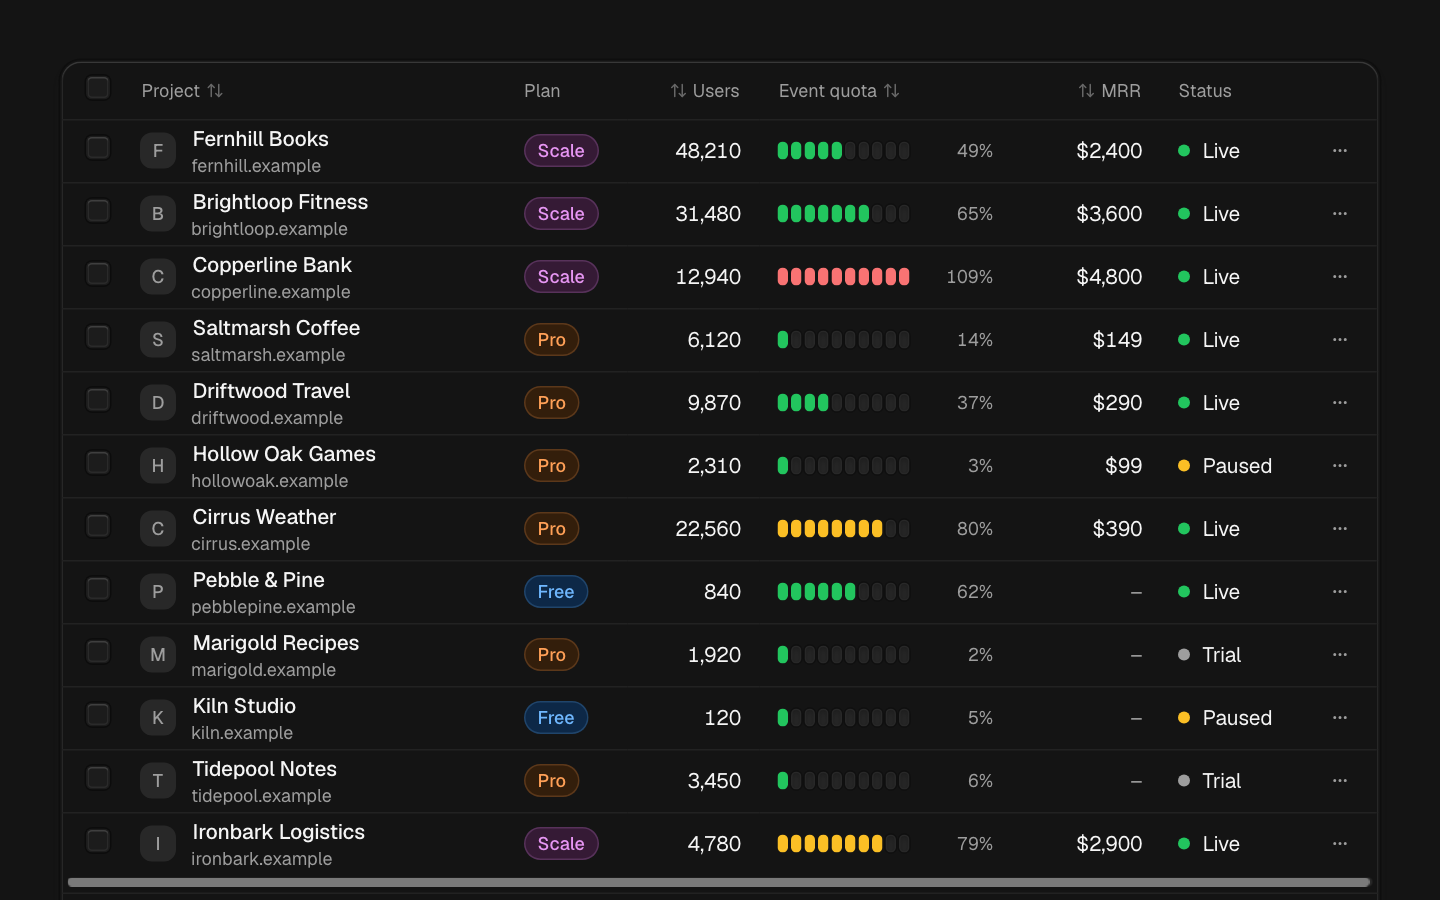
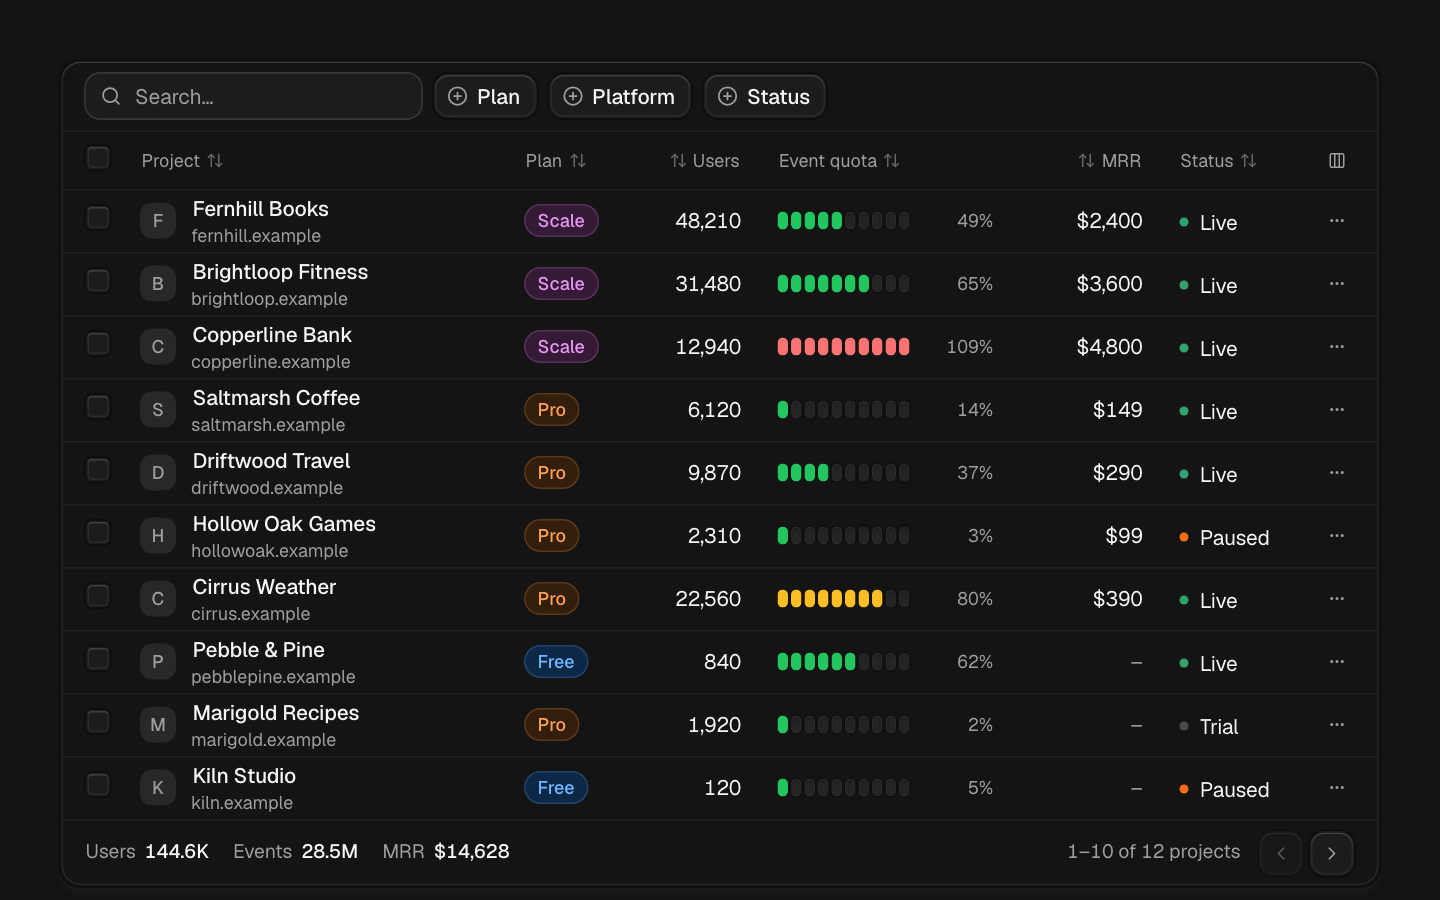
fix(data-table): clear the sort of a hidden column and announce a cleared selection

diff --git a/registry/kosmos/blocks/data-table/data-table.tsx b/registry/kosmos/blocks/data-table/data-table.tsx
@@ -409,8 +409,8 @@ function FacetFilter({
                 </span>
                 <span className="flex min-w-0 flex-1">{facet.option(value)}</span>
                 <span className="text-caption text-muted-foreground tabular-nums">
-                  {count.format(counts[value] ?? 0)}
-                  <span className="sr-only"> {counts[value] === 1 ? 'project' : 'projects'}</span>
+                  <span aria-hidden>{count.format(counts[value] ?? 0)}</span>
+                  <span className="sr-only">{plural(counts[value] ?? 0, 'project')}</span>
                 </span>
               </ComboboxPrimitive.Item>
             )}
@@ -465,13 +465,15 @@ type DataTableProps = Omit<React.ComponentProps<'div'>, 'children'> & {
   sort?: Sort | null;
   /** The sort at first. Without it, rows keep their order until a header's menu sorts them. */
   defaultSort?: Sort;
-  onSortChange?: (sort: Sort) => void;
+  /** Called with the new sort, or `null` when the sorted column is hidden. */
+  onSortChange?: (sort: Sort | null) => void;
   /** The columns hidden from a header's menu. Use with `onHiddenColumnsChange`, or leave it out and pass `defaultHiddenColumns`. */
   hiddenColumns?: DataTableColumn[];
   defaultHiddenColumns?: DataTableColumn[];
   onHiddenColumnsChange?: (columns: DataTableColumn[]) => void;
-  /** The page, from 1. Goes back to 1 when the search, the filters or the sort change. Use with `onPageChange`, or leave it out. */
+  /** The page, from 1. Goes back to 1 when the search, the filters or the sort change. Use with `onPageChange`, or leave it out and pass `defaultPage`. */
   page?: number;
+  defaultPage?: number;
   onPageChange?: (page: number) => void;
   /** Rows per page. */
   pageSize?: number;
@@ -506,6 +508,7 @@ function DataTable({
   defaultHiddenColumns = [],
   onHiddenColumnsChange,
   page: pageProp,
+  defaultPage = 1,
   onPageChange,
   pageSize = 10,
   className,
@@ -514,9 +517,9 @@ function DataTable({
   const [query, setQuery] = useControlled(queryProp, defaultQuery, onQueryChange);
   const [filters, setFilters] = useControlled<string[]>(filtersProp, defaultFilters, onFiltersChange);
   const [selection, setSelection] = useControlled<string[]>(selectionProp, defaultSelection, onSelectionChange);
-  const [sort, setSort] = useControlled<Sort | null>(sortProp, defaultSort ?? null, onSortChange as (sort: Sort | null) => void);
+  const [sort, setSort] = useControlled<Sort | null>(sortProp, defaultSort ?? null, onSortChange);
   const [hidden, setHidden] = useControlled<DataTableColumn[]>(hiddenProp, defaultHiddenColumns, onHiddenColumnsChange);
-  const [page, setPage] = useControlled(pageProp, 1, onPageChange);
+  const [page, setPage] = useControlled(pageProp, defaultPage, onPageChange);
   const searchId = React.useId();
   const columnsButton = React.useRef<HTMLButtonElement>(null);
 
@@ -536,14 +539,13 @@ function DataTable({
     return [...filtered].sort((a, b) => compare(a, b, sort.key) * sign);
   }, [searched, filters, sort]);
 
-  // A new search, filter or sort starts again from the first page.
-  const view = JSON.stringify([query.trim(), status, filters, sort]);
-  const lastView = React.useRef(view);
+  const viewKey = JSON.stringify([query.trim(), status, filters, sort]);
+  const lastViewKey = React.useRef(viewKey);
   React.useEffect(() => {
-    if (lastView.current === view) return;
-    lastView.current = view;
+    if (lastViewKey.current === viewKey) return;
+    lastViewKey.current = viewKey;
     if (page !== 1) setPage(1);
-  }, [view, page, setPage]);
+  }, [viewKey, page, setPage]);
 
   const currentPage = clampPage(page, pageCount(visible.length, pageSize));
   const { from, to } = pageRows(currentPage, pageSize, visible.length);
@@ -552,6 +554,8 @@ function DataTable({
   const selected = visible.filter((row) => selection.includes(row.id));
   const pageSelected = pageItems.filter((row) => selection.includes(row.id));
   const allOnPage = pageItems.length > 0 && pageSelected.length === pageItems.length;
+  const [announcedSelection, setAnnouncedSelection] = React.useState(false);
+  if (selected.length && !announcedSelection) setAnnouncedSelection(true);
   const allPaused = selected.length > 0 && selected.every((row) => row.status === 'paused');
   const totals = [
     { label: 'Users', value: countCompact.format(visible.reduce((sum, row) => sum + row.users, 0)) },
@@ -570,12 +574,16 @@ function DataTable({
     const facet = facets.find((item) => item.key === key);
     setFilters([...filters.filter((value) => !facet?.values.includes(value)), ...values]);
   };
+  // A hidden column stops sorting the rows, since no header would show the order.
+  const setColumnHidden = (id: DataTableColumn, hide: boolean) => {
+    setHidden(hide ? [...hidden, id] : hidden.filter((item) => item !== id));
+    if (hide && sort?.key === id) setSort(null);
+  };
   const hideColumn = (id: DataTableColumn) => {
-    setHidden([...hidden, id]);
+    setColumnHidden(id, true);
     // The menu that hid the column leaves with it.
     requestAnimationFrame(() => columnsButton.current?.focus());
   };
-  // Columns that are on but stepped aside because the table is narrow, so the Columns menu can say why they are missing.
   const [crowded, setCrowded] = React.useState<DataTableColumn[]>([]);
   const crowdedColumns = () =>
     [...(columnsButton.current?.closest('table')?.querySelectorAll<HTMLElement>('th[data-column]') ?? [])]
@@ -724,9 +732,7 @@ function DataTable({
                       <DropdownMenuCheckboxItem
                         key={column.id}
                         checked={!hidden.includes(column.id)}
-                        onCheckedChange={(checked) =>
-                          setHidden(checked ? hidden.filter((id) => id !== column.id) : [...hidden, column.id])
-                        }
+                        onCheckedChange={(checked) => setColumnHidden(column.id, !checked)}
                       >
                         {column.label}
                         {crowded.includes(column.id) ? (
@@ -927,7 +933,6 @@ function DataTable({
             ) : null}
             {onAction
               ? bulkActions(allPaused).map(({ action, label, icon: Icon }) => (
-                  // In a narrow table the bar keeps one line: the buttons show their icon and keep their name for screen readers.
                   <Button
                     key={action}
                     variant={action === 'delete' ? 'destructive' : 'secondary'}
@@ -954,21 +959,19 @@ function DataTable({
         {loading ? null : (
           <Pagination
             aria-label="Pages of projects"
-            page={currentPage}
+            page={page}
             onPageChange={setPage}
             total={visible.length}
             pageSize={pageSize}
             className="ms-auto gap-x-3"
           >
             <PaginationStatus>
-              {({ total = 0 }) =>
+              {({ from: first, to: last, total = 0 }) =>
                 total === 0
                   ? 'No projects'
                   : total <= pageSize
-                    ? filtering
-                      ? `${count.format(total)} of ${plural(rows.length, 'project')}`
-                      : plural(total, 'project')
-                    : `${count.format(from)}–${count.format(to)} of ${plural(total, 'project')}`
+                    ? plural(total, 'project')
+                    : `${count.format(first)}–${count.format(last)} of ${plural(total, 'project')}`
               }
             </PaginationStatus>
             <div className="flex items-center gap-1">
@@ -980,7 +983,7 @@ function DataTable({
       </div>
 
       <div aria-live="polite" className="sr-only">
-        {selected.length ? `${plural(selected.length, 'project')} selected` : ''}
+        {selected.length ? `${plural(selected.length, 'project')} selected` : announcedSelection ? 'No projects selected' : ''}
       </div>
     </div>
   );

diff --git a/registry/kosmos/examples/data-table.tsx b/registry/kosmos/examples/data-table.tsx
@@ -1,6 +1,5 @@
 'use client';
 
-import * as React from 'react';
 import { PreviewSection, PreviewStack } from '@/components/preview/preview-section';
 import { DataTable, type Project } from '@/registry/kosmos/blocks/data-table/data-table';
 
@@ -33,11 +32,6 @@ const longRows: Project[] = [
   },
 ];
 
-function SecondPage() {
-  const [page, setPage] = React.useState(2);
-  return <DataTable pageSize={5} page={page} onPageChange={setPage} onOpen={() => {}} onAction={() => {}} />;
-}
-
 export default function DataTablePreview() {
   return (
     <PreviewStack>
@@ -66,7 +60,7 @@ export default function DataTablePreview() {
 
       <PreviewSection title="Page 2 of 3, five rows a page">
         <div className={frame}>
-          <SecondPage />
+          <DataTable pageSize={5} defaultPage={2} onOpen={() => {}} onAction={() => {}} />
         </div>
       </PreviewSection>
 

diff --git a/.claude/skills/build-component/demo-world.md b/.claude/skills/build-component/demo-world.md
@@ -40,7 +40,7 @@ A plan is a category, so it is a tag (Badge hue variant) and keeps its hue every
 
 A project is one customer site or app sending events. Fields, in this order: `id`, `name`, `domain`, `platform` (`web` | `ios` | `android` | `server`), `plan` (`free` | `pro` | `scale`), `status` (`live` | `trial` | `paused`), `users` (monthly active users), `events` (last 30 days), `mrr` (USD; 0 on Free and on a trial), `lastEventAt` (ISO date).
 
-Status colors a dot beside its label: `live` is `success`, `trial` is `muted-foreground`, `paused` is `warning`. Platform shows as text with an icon (lucide `Globe`, `Smartphone` for iOS and Android, `Server`), never as a tag.
+Status is a `StatusDot` beside its label: `live` is green (`done`), `trial` gray (`pending`), `paused` orange (`waiting`). Platform shows as text with an icon (lucide `Globe`, `Smartphone` for iOS and Android, `Server`), never as a tag.
 
 A block that needs fewer rows takes the first ones, in this order:
 
